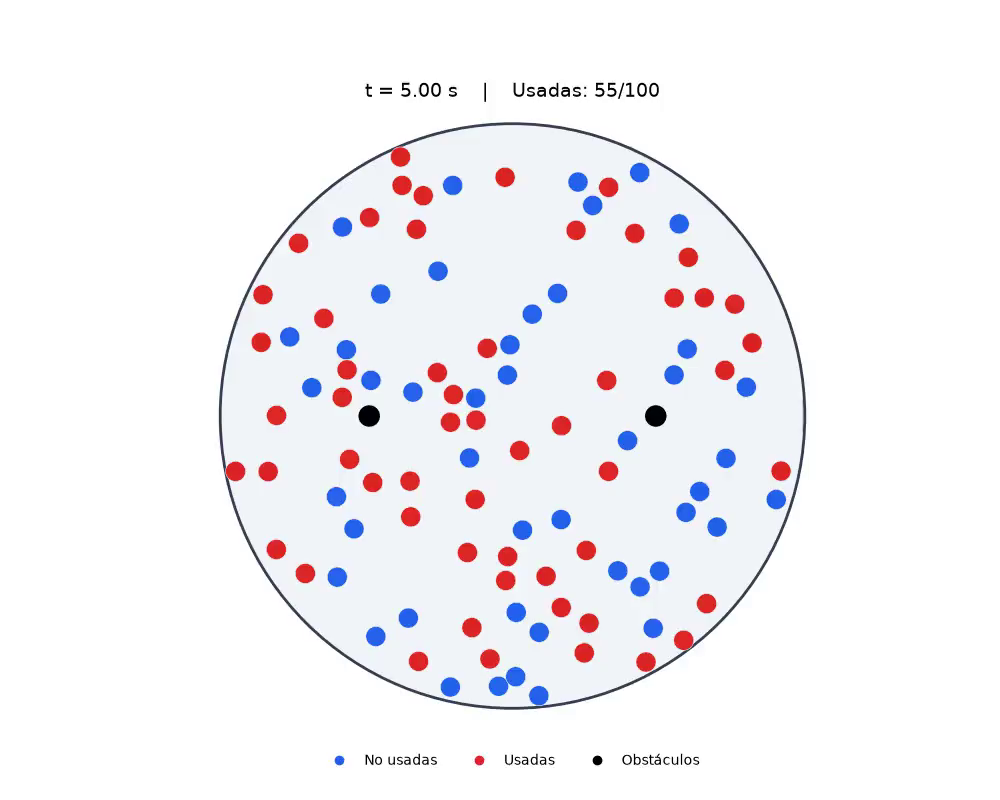
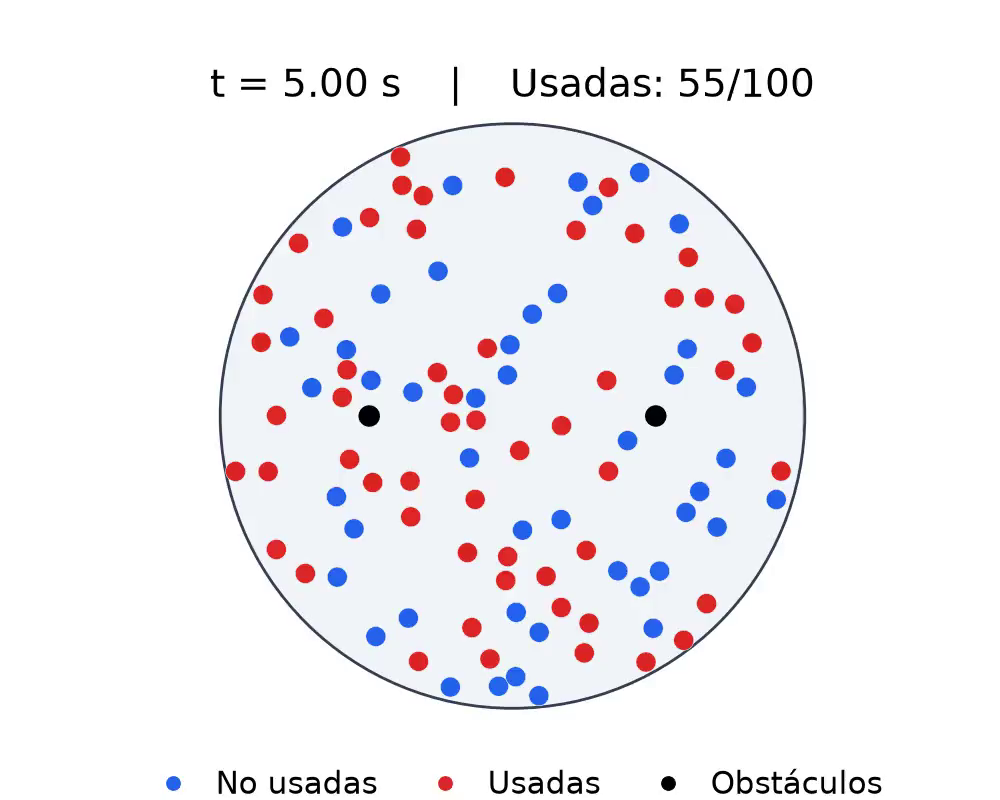
feat: animacions corregidas

diff --git a/TP4/scripts/animation/animate.py b/TP4/scripts/animation/animate.py
@@ -131,13 +131,14 @@ def render_animation(data, output, *, dpi=100):
         ax.add_patch(Circle((x, y), r, color='black', zorder=4))
     particles = PatchCollection([], edgecolor='white', linewidth=0.35, zorder=3)
     ax.add_collection(particles)
-    counter = ax.text(0.5, 1.025, '', transform=ax.transAxes, ha='center', fontsize=14)
+    counter = ax.text(0.5, 1.025, '', transform=ax.transAxes, ha='center', fontsize=28)
     colors = np.array(['#2563eb', '#dc2626'])
     entries = [(colors[0], 'No usadas'), (colors[1], 'Usadas')]
     if data.obstacles:
         entries.append(('black', 'Obstáculos'))
     ax.legend(handles=[Line2D([], [], marker='o', linestyle='', color=c, label=label) for c, label in entries],
-              loc='upper center', bbox_to_anchor=(0.5, -0.035), ncol=len(entries), frameon=False)
+              loc='upper center', bbox_to_anchor=(0.5, -0.035), ncol=len(entries), frameon=False,
+              fontsize=22, markerscale=1.6, columnspacing=1.2, handletextpad=0.4)
     fig.subplots_adjust(top=0.86, bottom=0.10)
     writer = FFMpegWriter(fps=1 / float(meta['dt2']), codec='libx264',
                          extra_args=['-pix_fmt', 'yuv420p', '-crf', '20'])

diff --git a/TP4/presentacion/template_presentacion_tp4.tex b/TP4/presentacion/template_presentacion_tp4.tex
@@ -100,8 +100,8 @@
 \newcommand{\animacionDosTresURL}{https://youtu.be/PENDIENTE}
 \newcommand{\animacionDosCuatroURL}{https://youtu.be/PENDIENTE}
 % Videos del Sistema 2: sin obstáculos y con obstáculos, respectivamente.
-\newcommand{\animacionSinObstaculosURL}{https://youtu.be/AfBOIIxCbrw}
-\newcommand{\animacionConObstaculosURL}{https://youtu.be/9todHGuL2gw}
+\newcommand{\animacionSinObstaculosURL}{https://youtu.be/82lP3rStJBo}
+\newcommand{\animacionConObstaculosURL}{https://youtu.be/uctSdF2HWXg}
 
 % Si existe logo_itba.png o logo_itba.pdf junto al .tex, se inserta.
 \newcommand{\institutionlogo}{%
@@ -436,7 +436,7 @@
       \href{\animacionConObstaculosURL}{\textcolor{TPBlue}{\small\expandafter\nolinkurl\expandafter{\animacionConObstaculosURL}}}
     \end{column}
     \begin{column}{0.27\textwidth}
-      \parambox{\item $N=100$\item $\Delta t=10^{-5}\,\mathrm{s}$}
+      \parambox{\item $N=100$\item $\Delta t=10^{-5}\,\mathrm{s}$\item $x=\pm 0{,}25\,\mathrm{m}$}
     \end{column}
   \end{columns}
 \end{frame}

diff --git a/TP4/presentacion/README.md b/TP4/presentacion/README.md
@@ -36,7 +36,7 @@ en un recuadro al costado del fotograma; el video muestra el tiempo y
 `Usadas: Nu/100`. Los fotogramas son de t=5 s,
 extraídos de los MP4 de `TP4/generated/animaciones/`. Los enlaces bajo estas
 imágenes muestran y abren los videos de YouTube: sin obstáculos,
-https://youtu.be/AfBOIIxCbrw; con obstáculos, https://youtu.be/9todHGuL2gw.
+https://youtu.be/82lP3rStJBo; con obstáculos, https://youtu.be/uctSdF2HWXg.
 Las URL se definen en `\animacionSinObstaculosURL` y `\animacionConObstaculosURL`.
 
 ## Versión para Google Slides
